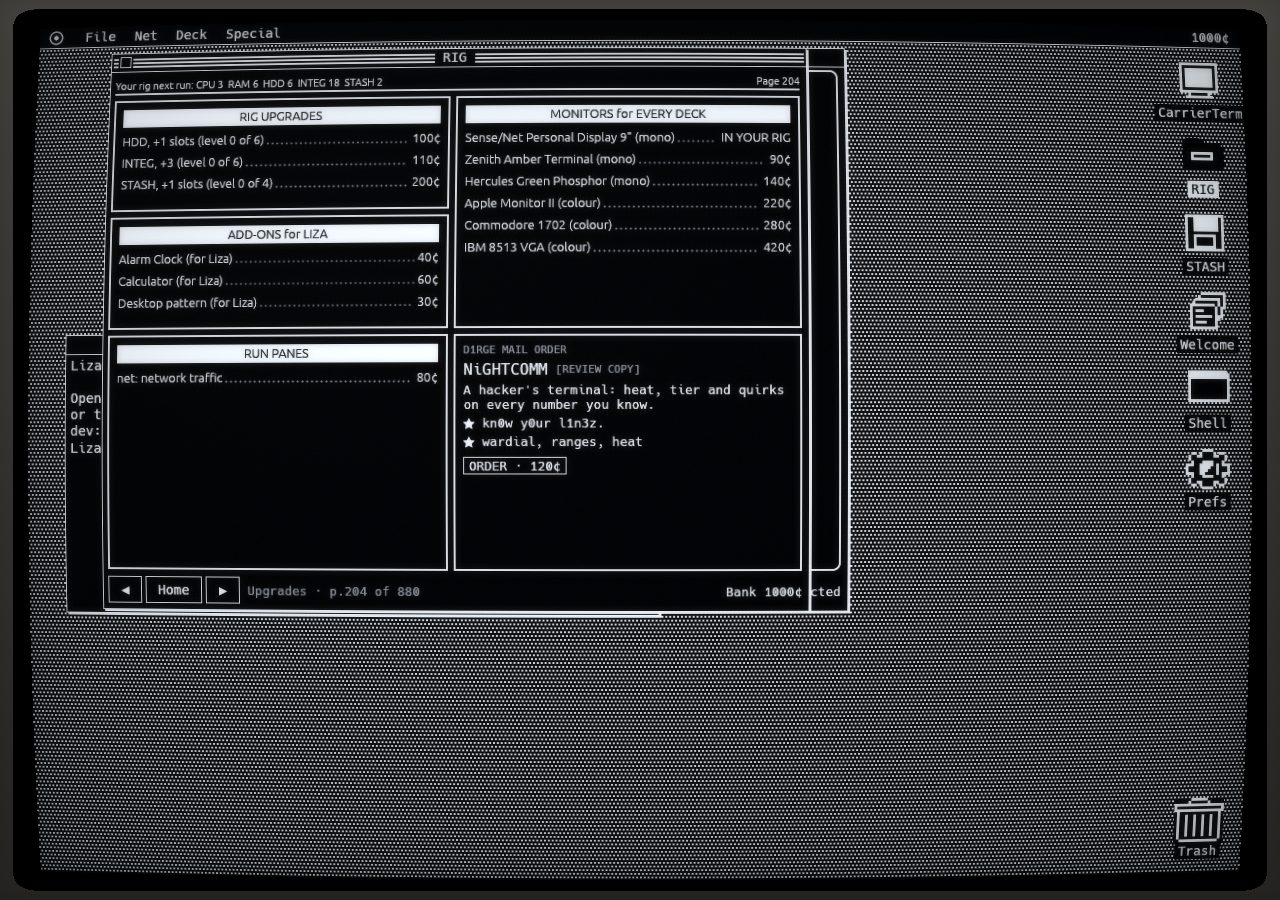
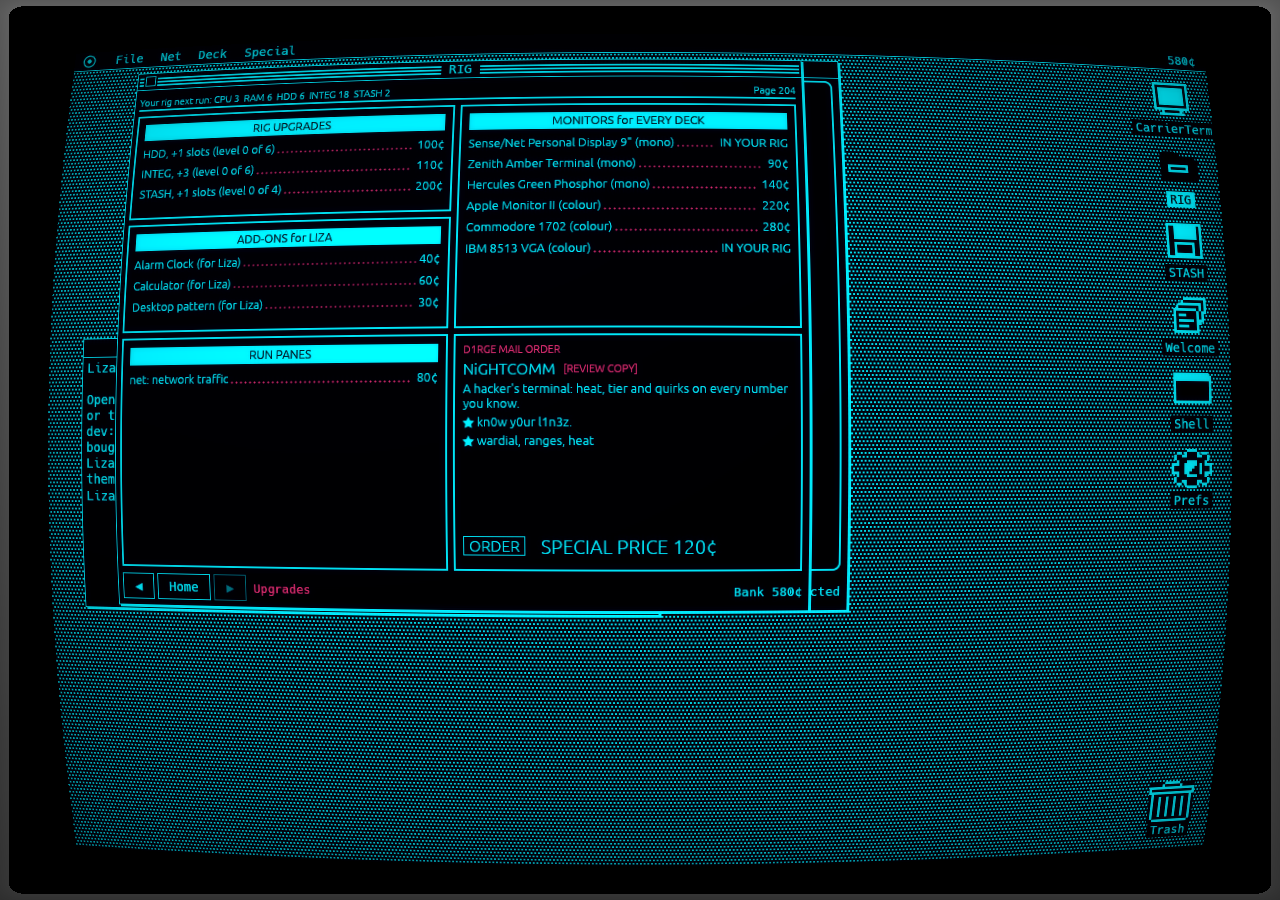
Apply the UX skills to CPU Shopper and the Welcome stack
Reviewed with ninsei-ux-review and fake-app-craft (references: Computer
Shopper, Feb 1986; HyperCard 1.x), on a mono tube and in Synthwave:

- Print face: every word on a magazine page is proportional, like print;
  the bar and window chrome keep the machine's font. (Two faces were
  mixed at random.)
- Ads pin their foot to the bottom like print ads: SPECIAL PRICE (or the
  callout with the list price) in big type beside ORDER, in a fixed-height
  row so nothing clips. (Half ads were ~60% empty.)
- One Contents page: IN THIS ISSUE and the INDEX OF ADVERTISERS side by
  side, then FEATURES (the cover stories) filling the page. The separate,
  mostly empty index page and the designer-voice hint are gone.
- The bar names the section; the page number lives only in the
  magazine's running head (it was shown twice).
- Welcome cards: type and pictures sized to the page so a full card
  fills it without wrapping; Home's status says how many sections instead
  of repeating the stack's title.

Fonts stay as they are pending a decision (fake-app-craft: faithful
fonts need a licence and wasm-size call).

Claude-Session: https://claude.ai/code/session_01Lh5QfgGt3UF7JRhU89MpDU

diff --git a/crates/app/src/shopper.rs b/crates/app/src/shopper.rs
@@ -31,6 +31,8 @@ const GUTTER: f32 = 6.0;
 const MARGIN: f32 = 8.0;
 /// The running head across the top of a section page.
 const HEAD: f32 = 22.0;
+/// An ad's foot row: the price and the Order button.
+const FOOT: f32 = 32.0;
 
 pub fn show(ui: &mut Ui, data: &Data, save: &Save, out: &mut Vec<WbOut>) {
     let def = &data.shopper;
@@ -44,13 +46,10 @@ pub fn show(ui: &mut Ui, data: &Data, save: &Save, out: &mut Vec<WbOut>) {
     let label = match &pages[at] {
         Page::Cover => "Cover".to_string(),
         Page::Contents => "Contents".to_string(),
-        Page::Index => "Index of advertisers".to_string(),
-        Page::Section {
-            section, number, ..
-        } => {
-            let title = def.section(*section).map_or("", |s| s.title.as_str());
-            format!("{title} · p.{number} of {}", def.pages)
-        }
+        // The page number is the magazine's own (its running head); the bar names the section.
+        Page::Section { section, .. } => def
+            .section(*section)
+            .map_or(String::new(), |s| s.title.clone()),
     };
     let status = format!("Bank {}¢", save.bank);
     let book = Book {
@@ -61,11 +60,7 @@ pub fn show(ui: &mut Ui, data: &Data, save: &Save, out: &mut Vec<WbOut>) {
     };
     let next = pager::show(ui, book, |ui, rect| match &pages[at] {
         Page::Cover => cover(ui, rect, def, &pages, save.bank),
-        Page::Contents => contents(ui, def, &pages),
-        Page::Index => {
-            index(ui, def, &cat, &pages);
-            None
-        }
+        Page::Contents => contents(ui, rect, def, &cat, &pages),
         Page::Section {
             section,
             number,
@@ -81,8 +76,13 @@ pub fn show(ui: &mut Ui, data: &Data, save: &Save, out: &mut Vec<WbOut>) {
     ui.data_mut(|d| d.insert_temp(id, next));
 }
 
+/// Print: every word on the page is set in the proportional face, like a magazine. The bar
+/// under the page and the window around it stay in the machine's own font.
 fn text(t: impl Into<String>, size: f32) -> RichText {
-    RichText::new(t).size(size).color(ink())
+    RichText::new(t)
+        .family(egui::FontFamily::Proportional)
+        .size(size)
+        .color(ink())
 }
 
 fn bold(t: impl Into<String>, size: f32) -> RichText {
@@ -90,7 +90,7 @@ fn bold(t: impl Into<String>, size: f32) -> RichText {
 }
 
 fn small(t: impl Into<String>) -> RichText {
-    RichText::new(t).size(size::SMALL).color(muted())
+    text(t, size::SMALL).color(muted())
 }
 
 fn rule(ui: &mut Ui, width: f32) {
@@ -219,7 +219,7 @@ fn starburst(ui: &mut Ui, bank: u32) {
     line(20.0, "spend it inside!".into(), size::SMALL);
 }
 
-/// IN THIS ISSUE: each section and the index, with their pages.
+/// IN THIS ISSUE: each section and its page.
 fn toc_box(ui: &mut Ui, def: &ShopperDef, pages: &[Page]) -> Option<Turn> {
     let mut to = None;
     ui.label(small("IN THIS ISSUE"));
@@ -229,35 +229,62 @@ fn toc_box(ui: &mut Ui, def: &ShopperDef, pages: &[Page]) -> Option<Turn> {
             to = Some(Turn::To(i));
         }
     }
-    if leader(ui, "Index of advertisers", &def.pages.to_string()).clicked() {
-        to = Some(Turn::To(pages.len() - 1));
-    }
     to
 }
 
-fn contents(ui: &mut Ui, def: &ShopperDef, pages: &[Page]) -> Option<Turn> {
-    let rect = ui.max_rect().shrink(MARGIN);
-    let mut ui = pager::area(ui, rect);
-    ui.label(bold("CONTENTS", size::HEADLINE));
-    rule(&mut ui, 2.0);
-    let to = toc_box(&mut ui, def, pages);
-    ui.add_space(8.0);
-    ui.label(small(
-        "Every price is the seller's own. Order from any page: it goes straight to your rig.",
+/// The contents page: IN THIS ISSUE and the INDEX OF ADVERTISERS side by side, each as tall as
+/// its lines, then the issue's FEATURES (the cover stories) filling the rest of the page.
+fn contents(
+    ui: &mut Ui,
+    rect: Rect,
+    def: &ShopperDef,
+    cat: &[Listing],
+    pages: &[Page],
+) -> Option<Turn> {
+    let rect = rect.shrink(MARGIN);
+    let mut head = pager::area(ui, rect);
+    head.label(bold(
+        format!("{} · {} · {}", def.title, def.month, def.issue),
+        size::HEADLINE,
     ));
+    rule(&mut head, 2.0);
+    let top = head.cursor().top() + GUTTER;
+    let toc = shopper::contents(pages);
+    let index = shopper::advertisers(def, cat, pages);
+    // A box is its label, its leader lines and its border.
+    // Each row is its own height plus egui's spacing between items.
+    let gap = ui.spacing().item_spacing.y;
+    let line = size::BODY + 6.0 + gap;
+    let lines = toc.len().max(index.len()) as f32;
+    let boxes_h = size::SMALL + 6.0 + gap + lines * line + 2.0 * (MARGIN + 2.0) + 4.0;
+    let half = (rect.width() - GUTTER) / 2.0;
+    let left = Rect::from_min_size(pos2(rect.left(), top), vec2(half, boxes_h));
+    let right = Rect::from_min_size(pos2(left.right() + GUTTER, top), vec2(half, boxes_h));
+    let mut to = None;
+    boxed(ui, left, 2.0, |ui| to = toc_box(ui, def, pages));
+    boxed(ui, right, 2.0, |ui| {
+        ui.label(small("INDEX OF ADVERTISERS"));
+        for (v, nums) in &index {
+            let name = def.vendor(v).map_or(v.clone(), |d| d.name.clone());
+            let nums: Vec<String> = nums.iter().map(u32::to_string).collect();
+            leader(ui, &name, &nums.join(", "));
+        }
+    });
+    let features = Rect::from_min_max(pos2(rect.left(), left.bottom() + GUTTER), rect.max);
+    boxed(ui, features, 2.0, |ui| {
+        ui.label(small("FEATURES"));
+        ui.add_space(4.0);
+        for c in &def.cover {
+            let at = toc.iter().find(|(s, ..)| *s == c.section);
+            let page = at.map_or(String::new(), |&(_, _, n)| n.to_string());
+            if leader(ui, &c.headline, &page).clicked() {
+                to = at.map(|&(_, i, _)| Turn::To(i));
+            }
+            ui.label(text(&c.line, size::BODY));
+            ui.add_space(6.0);
+        }
+    });
     to
-}
-
-fn index(ui: &mut Ui, def: &ShopperDef, cat: &[Listing], pages: &[Page]) {
-    let rect = ui.max_rect().shrink(MARGIN);
-    let mut ui = pager::area(ui, rect);
-    ui.label(bold("INDEX OF ADVERTISERS", size::HEADLINE));
-    rule(&mut ui, 2.0);
-    for (v, nums) in shopper::advertisers(def, cat, pages) {
-        let name = def.vendor(&v).map_or(v.clone(), |d| d.name.clone());
-        let nums: Vec<String> = nums.iter().map(u32::to_string).collect();
-        leader(&mut ui, &name, &nums.join(", "));
-    }
 }
 
 /// Where a grid cell lands on the page body.
@@ -372,33 +399,44 @@ fn price_text(l: &Listing) -> String {
     }
 }
 
-/// The ad's foot: its price (or callout), then the Order button, or why there isn't one.
+/// The ad's foot, pinned to the bottom of the ad like a print ad: the price in big type (or the
+/// callout, with the list price under it) and the Order button, or why there isn't one.
 fn order(ui: &mut Ui, data: &Data, save: &Save, l: &Listing, a: &AdDef, out: &mut Vec<WbOut>) {
-    match l.stock {
-        Stock::Price(p) => {
-            ui.horizontal(|ui| {
+    ui.with_layout(egui::Layout::bottom_up(egui::Align::Min), |ui| {
+        // One fixed-height row, centred, so big type never runs past the ad's border.
+        let row = vec2(ui.available_width(), FOOT);
+        let centred = egui::Layout::left_to_right(egui::Align::Center);
+        ui.allocate_ui_with_layout(row, centred, |ui| match l.stock {
+            Stock::Price(p) => {
                 let blocker = save.order_blocker(data, &l.item);
                 let resp = ui.add_enabled(
                     blocker.is_none(),
-                    egui::Button::new(bold(format!("ORDER · {p}¢"), size::BODY)),
+                    egui::Button::new(bold("ORDER", size::TITLE)),
                 );
                 if let Some(why) = blocker {
                     resp.on_disabled_hover_text(why);
                 } else if resp.clicked() {
                     out.push(WbOut::Order(l.item.clone()));
                 }
-                if let Some(c) = &a.callout {
-                    ui.label(bold(c, size::TITLE));
+                ui.add_space(8.0);
+                match &a.callout {
+                    Some(c) => {
+                        ui.label(bold(c, size::HEADLINE));
+                        ui.label(small(format!("or {p}¢ list")));
+                    }
+                    None => {
+                        ui.label(bold(format!("SPECIAL PRICE {p}¢"), size::HEADLINE));
+                    }
                 }
-            });
-        }
-        Stock::Owned => {
-            ui.label(bold("IN YOUR RIG", size::TITLE));
-        }
-        Stock::SoldOut => {
-            ui.label(bold("SOLD OUT", size::HEADLINE));
-        }
-    }
+            }
+            Stock::Owned => {
+                ui.label(bold("IN YOUR RIG", size::HEADLINE));
+            }
+            Stock::SoldOut => {
+                ui.label(bold("SOLD OUT", size::HEADLINE));
+            }
+        });
+    });
 }
 
 fn bullets(ui: &mut Ui, list: &[String]) {
@@ -452,8 +490,6 @@ fn full_ad(
     if let Some(n) = &a.note {
         ui.label(small(n));
     }
-    ui.add_space(6.0);
-    order(ui, data, save, l, a, out);
     if let Some(v) = vendor.filter(|v| !v.terms.is_empty()) {
         ui.add_space(6.0);
         rule(ui, 2.0);
@@ -467,6 +503,7 @@ fn full_ad(
             size::SMALL,
         ));
     }
+    order(ui, data, save, l, a, out);
 }
 
 fn small_ad(
@@ -492,7 +529,6 @@ fn small_ad(
     if let Some(n) = &a.note {
         ui.label(small(n));
     }
-    ui.add_space(4.0);
     order(ui, data, save, l, a, out);
 }
 

diff --git a/crates/app/src/hubtools.rs b/crates/app/src/hubtools.rs
@@ -166,6 +166,16 @@ pub fn stash(ui: &mut Ui, data: &Data, save: &Save, out: &mut Vec<WbOut>, edit: 
 /// The Welcome to the Net stack as a HyperCard card: ink on paper, the card's picture on the
 /// left and its text on the right, ◀ Home ▶ along the bottom. The Home card lists the
 /// sections. Arrow keys page while the pointer is over it.
+/// A card's type and picture, sized so a full card (`cards::TEXT_COLS` x `TEXT_ROWS`) fills the
+/// book's page the way a HyperCard card filled the screen.
+mod card {
+    pub const TITLE: f32 = 24.0;
+    /// 54 columns of this beside the widest picture fit the page without wrapping.
+    pub const TEXT: f32 = 15.0;
+    pub const SMALL: f32 = 13.0;
+    pub const PICTURE: f32 = 4.0;
+}
+
 pub fn guide(ui: &mut Ui, data: &Data, at: &mut ninsei_core::cards::Place) {
     use ninsei_core::book::Turn;
     use ninsei_core::cards::{self, Place};
@@ -182,7 +192,11 @@ pub fn guide(ui: &mut Ui, data: &Data, at: &mut ninsei_core::cards::Place) {
             format!("card {} of {}", i + 1, all.len()),
             stack.sections[all[i].0].name.clone(),
         ),
-        _ => ("Home".to_string(), stack.title.clone()),
+        // The window already says the stack's name; Home's status says what's in it.
+        _ => (
+            "Home".to_string(),
+            format!("{} sections", stack.sections.len()),
+        ),
     };
     let mono = |s: &str, size: f32| RichText::new(s).monospace().size(size).color(ink);
     let book = crate::pager::Book {
@@ -205,13 +219,13 @@ pub fn guide(ui: &mut Ui, data: &Data, at: &mut ninsei_core::cards::Place) {
         let mut to = None;
         match *at {
             Place::Home => {
-                ui.label(mono(&stack.title, 20.0).strong());
-                ui.label(mono("from your friends at Sense/Net", 12.0));
-                ui.add_space(10.0);
+                ui.label(mono(&stack.title, card::TITLE).strong());
+                ui.label(mono("from your friends at Sense/Net", card::SMALL));
+                ui.add_space(14.0);
                 for (i, s) in stack.sections.iter().enumerate() {
                     let n = s.cards.len();
                     if ui
-                        .button(mono(&format!("{:<16} {n} card(s)", s.name), 14.0))
+                        .button(mono(&format!("{:<16} {n} card(s)", s.name), card::TEXT))
                         .clicked()
                     {
                         to = Some(Turn::To(stack.section_start(i) + 1));
@@ -223,22 +237,22 @@ pub fn guide(ui: &mut Ui, data: &Data, at: &mut ninsei_core::cards::Place) {
                     return Some(Turn::Home);
                 };
                 ui.horizontal(|ui| {
-                    ui.label(mono(&card.title, 18.0).strong());
+                    ui.label(mono(&card.title, card::TITLE).strong());
                     ui.add_space(12.0);
-                    ui.label(mono(&stack.sections[*sec].name, 12.0));
+                    ui.label(mono(&stack.sections[*sec].name, card::SMALL));
                 });
-                ui.add_space(8.0);
+                ui.add_space(12.0);
                 ui.horizontal_top(|ui| {
                     if let Some(rows) = card.picture.as_ref().and_then(|p| stack.pictures.get(p)) {
-                        let scale = 3.0;
+                        let scale = card::PICTURE;
                         let size = crate::patterns::bitmap_size(rows, scale);
                         let (r, _) = ui.allocate_exact_size(size, egui::Sense::hover());
                         crate::patterns::bitmap(ui.painter(), rows, r.min, scale, ink, paper);
-                        ui.add_space(12.0);
+                        ui.add_space(16.0);
                     }
                     ui.vertical(|ui| {
                         for l in &card.text {
-                            ui.label(mono(&cards::fill(l, data), 13.0));
+                            ui.label(mono(&cards::fill(l, data), card::TEXT));
                         }
                     });
                 });

diff --git a/crates/core/src/shopper.rs b/crates/core/src/shopper.rs
@@ -547,7 +547,6 @@ pub enum Page {
         vendor: String,
         blocks: Vec<(Block, Cell)>,
     },
-    Index,
 }
 
 /// A section page's grid.
@@ -585,7 +584,8 @@ fn fit(used: &[Cell], cols: usize, rows: usize) -> Option<Cell> {
     None
 }
 
-/// The whole issue: cover, contents, every section's pages, then the index of advertisers.
+/// The whole issue: the cover, the contents (with the index of advertisers), then every
+/// section's pages.
 /// Every listing appears exactly once, and every block gets its own cells on one page.
 pub fn layout(def: &ShopperDef, catalog: &[Listing]) -> Vec<Page> {
     let mut pages = vec![Page::Cover, Page::Contents];
@@ -689,7 +689,6 @@ pub fn layout(def: &ShopperDef, catalog: &[Listing]) -> Vec<Page> {
             blocks,
         });
     }
-    pages.push(Page::Index);
     pages
 }
 

diff --git a/crates/core/tests/shopper.rs b/crates/core/tests/shopper.rs
@@ -46,7 +46,7 @@ fn every_listing_is_on_exactly_one_page() {
         let pages = shopper::layout(&d.shopper, &cat);
         assert_eq!(pages.first(), Some(&Page::Cover));
         assert_eq!(pages[1], Page::Contents);
-        assert_eq!(pages.last(), Some(&Page::Index));
+        assert!(matches!(pages.last(), Some(Page::Section { .. })));
         let mut seen = shown(&pages);
         seen.sort_unstable();
         assert_eq!(seen, (0..cat.len()).collect::<Vec<_>>());
